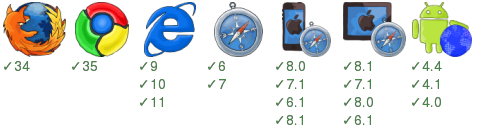
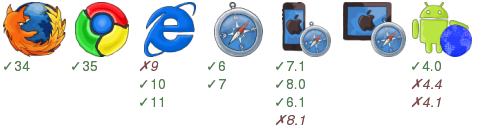
Auto push new examples from zordius/fluxex@ae0156685b79a83471cd7f9071aa5702be914665

diff --git a/00hello/badge.html b/00hello/badge.html
@@ -19,7 +19,7 @@ div{vertical-align:top;overflow:hidden;display:inline-block;width:92px;padding:4
 <p>&#x2713;35</p>
 </div><div>
 <img src="/home/travis/build/zordius/fluxex/examples/00hello/node_modules/badge-render/browser-badge/static/explorer.png" />
-<p>&#x2713;9</p>
+<i>&#x2717;9</i>
 <p>&#x2713;10</p>
 <p>&#x2713;11</p>
 </div><div>
@@ -28,20 +28,16 @@ div{vertical-align:top;overflow:hidden;display:inline-block;width:92px;padding:4
 <p>&#x2713;7</p>
 </div><div>
 <img src="/home/travis/build/zordius/fluxex/examples/00hello/node_modules/badge-render/browser-badge/static/iphone.png" />
-<p>&#x2713;8.0</p>
 <p>&#x2713;7.1</p>
+<p>&#x2713;8.0</p>
 <p>&#x2713;6.1</p>
-<p>&#x2713;8.1</p>
+<i>&#x2717;8.1</i>
 </div><div>
 <img src="/home/travis/build/zordius/fluxex/examples/00hello/node_modules/badge-render/browser-badge/static/ipad.png" />
-<p>&#x2713;8.1</p>
-<p>&#x2713;7.1</p>
-<p>&#x2713;8.0</p>
-<p>&#x2713;6.1</p>
 </div><div>
 <img src="/home/travis/build/zordius/fluxex/examples/00hello/node_modules/badge-render/browser-badge/static/android-browser.png" />
-<p>&#x2713;4.4</p>
-<p>&#x2713;4.1</p>
 <p>&#x2713;4.0</p>
+<i>&#x2717;4.4</i>
+<i>&#x2717;4.1</i>
 </div></body>
 </html>

diff --git a/shared_testconf.js b/shared_testconf.js
@@ -20,10 +20,10 @@ var config = {
     {browserName: 'iphone', deviceName: 'iPhone Simulator', version:'8.0', platform: 'OS X 10.9'},
     {browserName: 'iphone', deviceName: 'iPhone Simulator', version:'7.1', platform: 'OS X 10.9'},
     {browserName: 'iphone', deviceName: 'iPhone Simulator', version:'6.1', platform: 'OS X 10.8'},
-    {browserName: 'ipad', version:'8.1', platform: 'OS X 10.9'},
-    {browserName: 'ipad', version:'8.0', platform: 'OS X 10.9'},
-    {browserName: 'ipad', version:'7.1', platform: 'OS X 10.9'},
-    {browserName: 'ipad', version:'6.1', platform: 'OS X 10.8'}
+    {browserName: 'ipad', deviceName: 'iPhone Simulator', version:'8.1', platform: 'OS X 10.9'},
+    {browserName: 'ipad', deviceName: 'iPhone Simulator', version:'8.0', platform: 'OS X 10.9'},
+    {browserName: 'ipad', deviceName: 'iPhone Simulator', version:'7.1', platform: 'OS X 10.9'},
+    {browserName: 'ipad', deviceName: 'iPhone Simulator', version:'6.1', platform: 'OS X 10.8'}
   ],
 
   specs: [process.cwd() + '/spec.js'],
